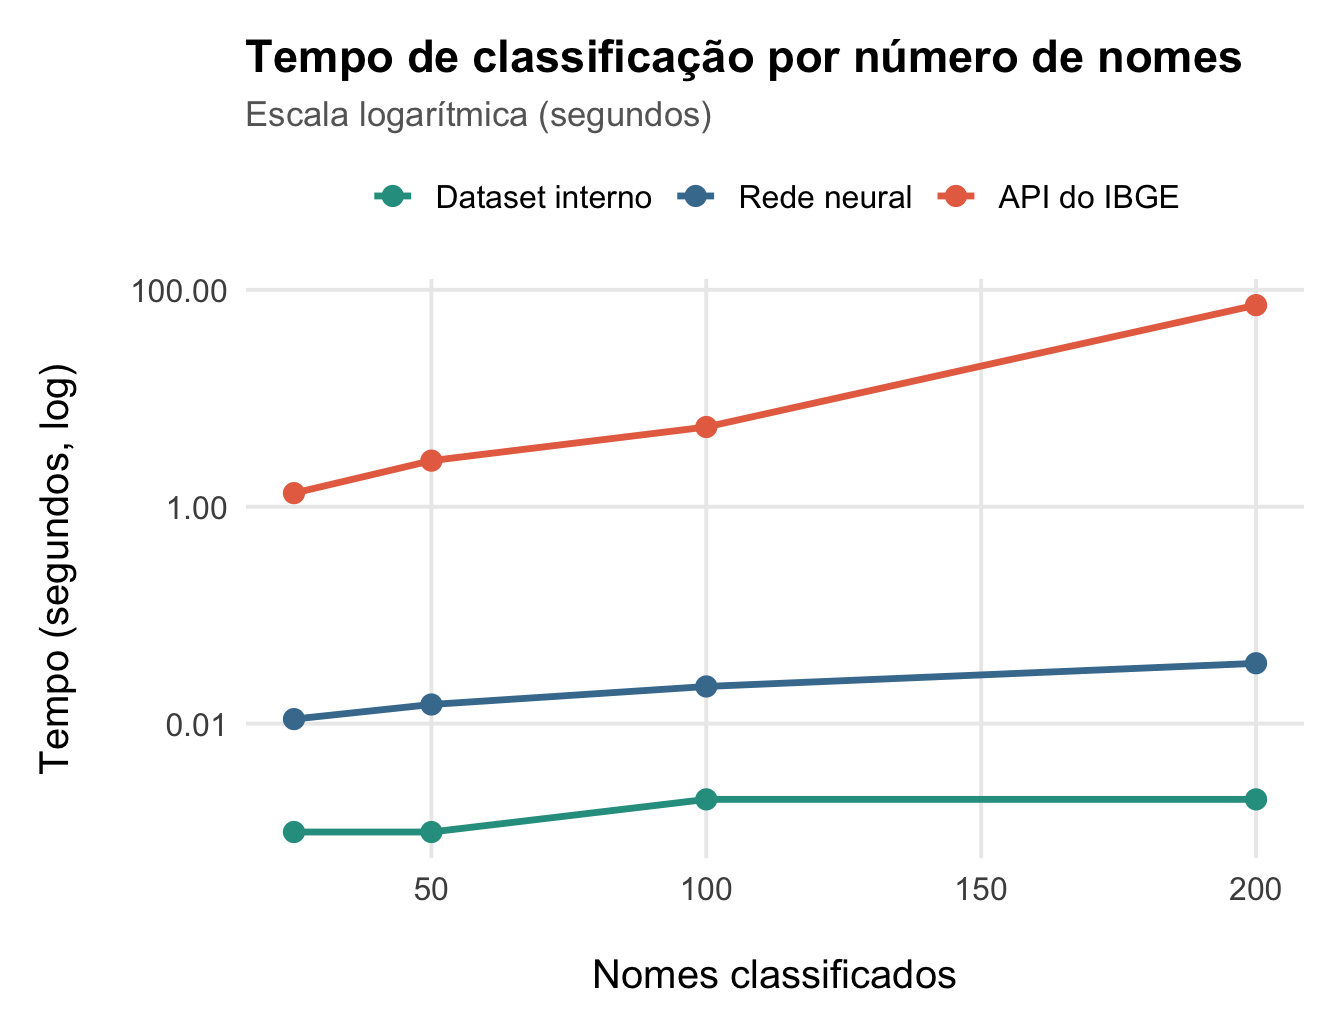
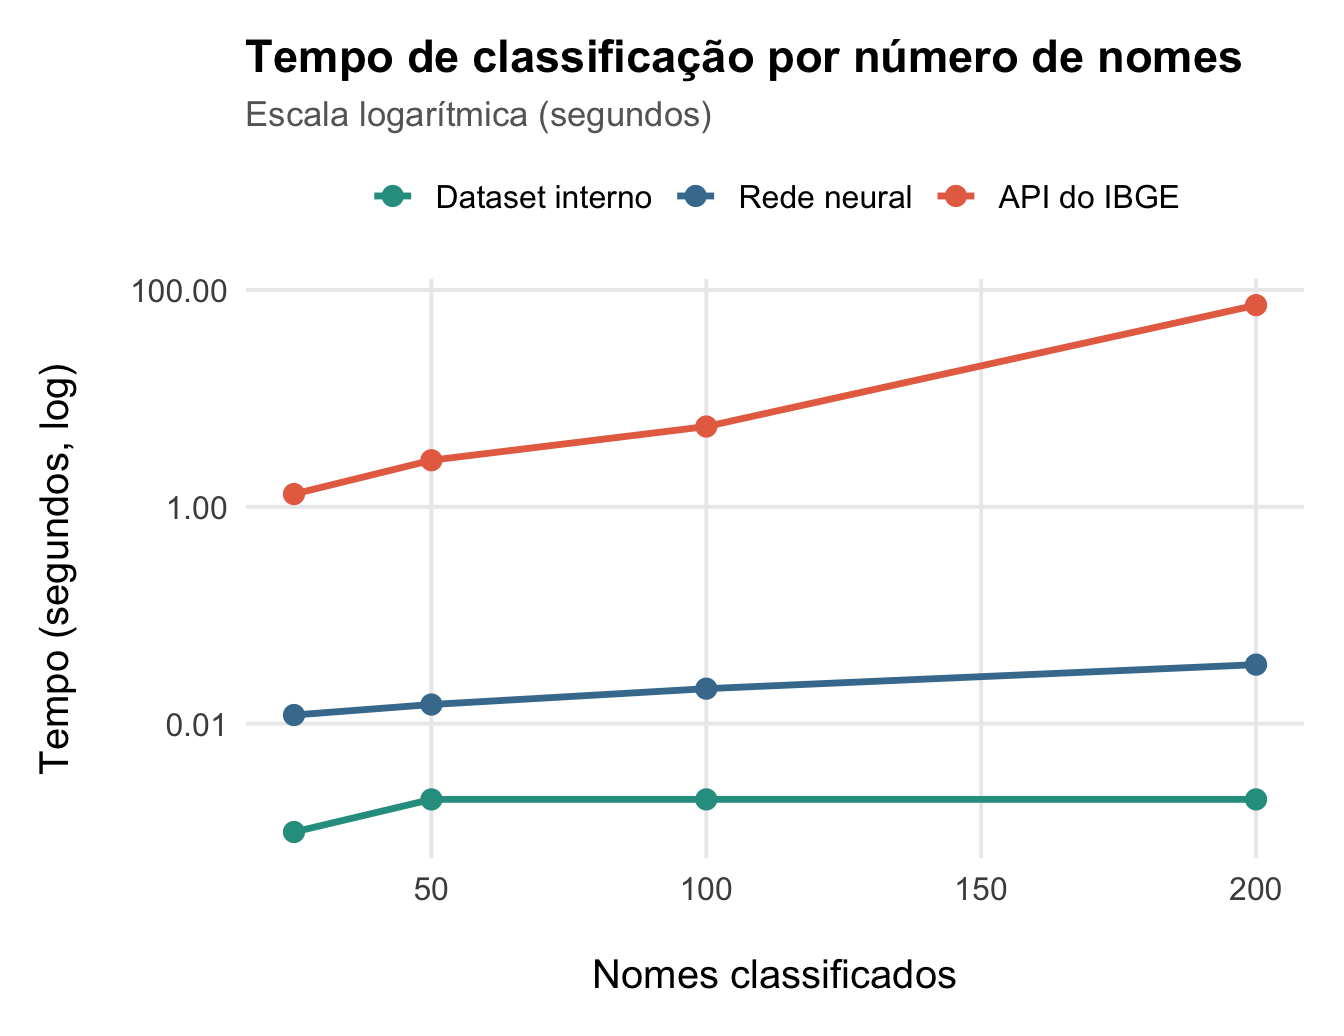
Ajuste no index

diff --git a/index.html b/index.html
@@ -169,8 +169,8 @@ ul.task-list li input[type="checkbox"] {
   <div class="about-contents"><main class="content" id="quarto-document-content">
 <section id="about" class="level1">
 <h1>About</h1>
-<p>I am an Assistant Professor of Political Science at the Institute for Social and Political Studies (<a href="https://iesp.uerj.br/">IESP-UERJ</a>) and co-director at the Laborabotory for Monitoring and Evaluation of Policies and Elections (<a href="https://mape.org.br/">MAPE</a>) and <a href="https://www.lab-doxa.org.br">DOXA (Laboratory for Electoral Studies, Political Communication, and Public Opinion)</a>.</p>
-<p>The central themes of my research are political representation and development. My research examines how public policies and elections shape representation using a combination of machine learning, causal inference, and survey methods. In addition to my research, I develop <a href="./software.html">open source tools</a> for social science research.</p>
+<p>I am an Assistant Professor of Political Science at the Institute for Social and Political Studies (<a href="https://iesp.uerj.br/">IESP-UERJ</a>) and co-director at the Laborabotory for Monitoring and Evaluation of Policies and Elections (<a href="https://mape.org.br/">MAPE</a>) and at the Laboratory for Electoral Studies, Political Communication, and Public Opinion <a href="https://www.lab-doxa.org.br">(DOXA)</a>.</p>
+<p>The central themes of my research are political representation and development. My research examines how public policies and political institutions affect the distribution of public resources citizens’ well-being using machine learning, causal inference, and survey methods. In addition to my research, I develop <a href="./software.html">open source tools</a> for social science research.</p>
 
 
 </section>

diff --git a/blog.html b/blog.html
@@ -216,7 +216,7 @@ window.Quarto = {
 
 <div class="quarto-listing quarto-listing-container-default" id="listing-listing">
 <div class="list quarto-listing-default">
-<div class="quarto-post image-right" data-index="0" data-categories="UiUyQ1BhY290ZQ==" data-listing-date-sort="1775530800000" data-listing-file-modified-sort="1775568349907" data-listing-date-modified-sort="NaN" data-listing-reading-time-sort="13" data-listing-word-count-sort="2532">
+<div class="quarto-post image-right" data-index="0" data-categories="UiUyQ1BhY290ZQ==" data-listing-date-sort="1775530800000" data-listing-file-modified-sort="1775585026281" data-listing-date-modified-sort="NaN" data-listing-reading-time-sort="13" data-listing-word-count-sort="2536">
 <div class="thumbnail"><a href="./posts/2026-04-07-genderbr-classificacao-sexo/index.html" class="no-external">
 
 <p class="card-img-top"><img src="posts/2026-04-07-genderbr-classificacao-sexo/index_files/figure-html/benchmark-1.png"  class="thumbnail-image card-img"/></p>

diff --git a/posts/2026-04-07-genderbr-classificacao-sexo/index.html b/posts/2026-04-07-genderbr-classificacao-sexo/index.html
@@ -326,11 +326,11 @@ pre > code.sourceCode > span > a:first-child::before { text-decoration: underlin
 </tr>
 <tr class="even">
 <td style="text-align: left;">Rede neural</td>
-<td style="text-align: right;">0,011</td>
+<td style="text-align: right;">0,010</td>
 </tr>
 <tr class="odd">
 <td style="text-align: left;">API do IBGE</td>
-<td style="text-align: right;">1,339</td>
+<td style="text-align: right;">1,283</td>
 </tr>
 </tbody>
 </table>
